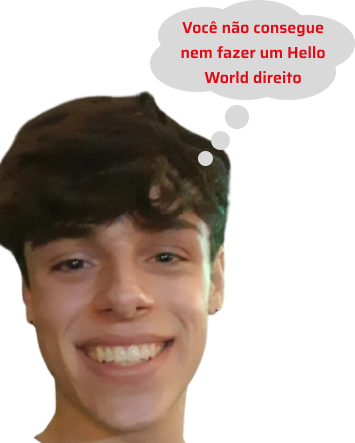
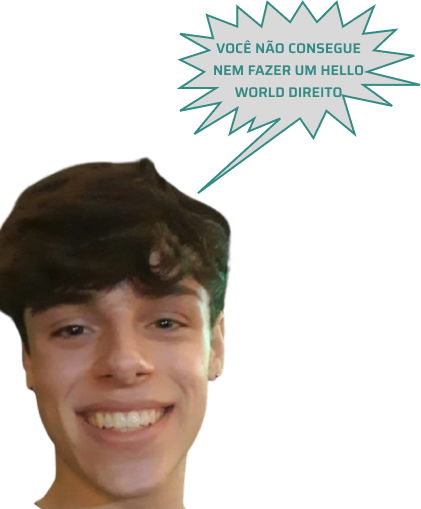
update details

diff --git a/pedra-papel-tesoura/style.css b/pedra-papel-tesoura/style.css
@@ -115,26 +115,27 @@ body {
 .monitor {
   height: 300px;
   width: 300px;
+  background-size: contain;
+  background-repeat: no-repeat;
+  background-position: right;
 }
 
 .monitor1 {
   background-image: url("images/monitor1.png");
-  background-size: contain;
-  background-repeat: no-repeat;
 }
 
 .monitor2 {
   background-image: url("images/monitor2.png");
-  background-size: contain;
-  background-repeat: no-repeat;
 }
 
 .monitor1-fala {
   background-image: url("images/monitor1-fala.png");
+  scale: 1.3;
 }
 
 .monitor2-fala {
   background-image: url("images/monitor2-fala.png");
+  scale: 1.3;
 }
 
 .monitor-mao-left {
